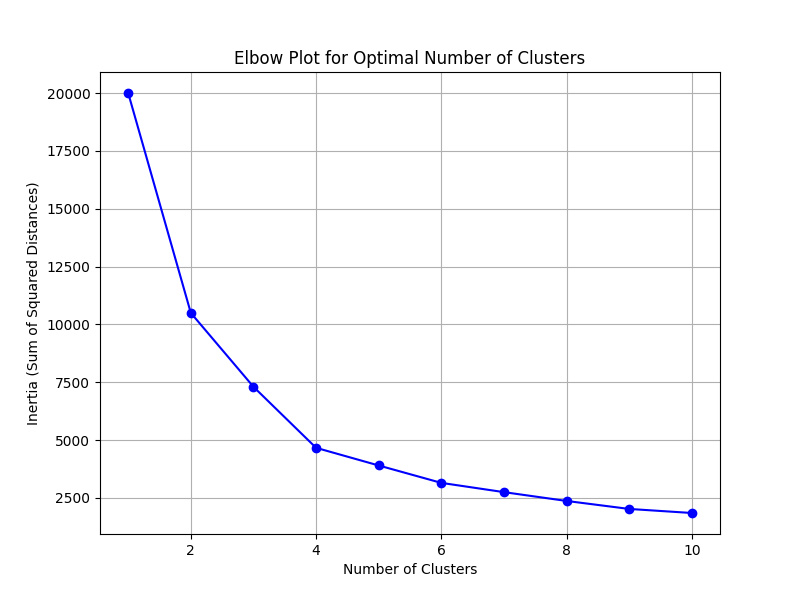
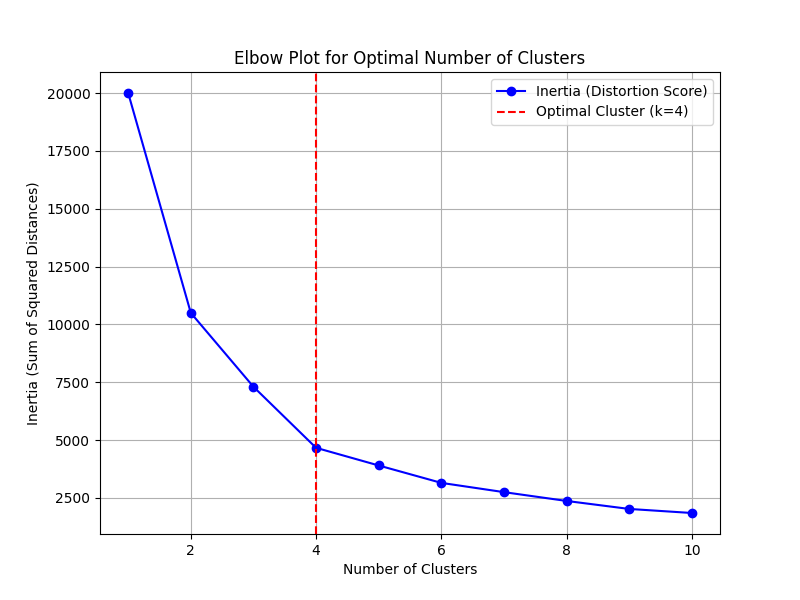
commit

Changed region(s): [[0.625, 0.12, 0.9062, 0.21]]

diff --git a/clustering_and_fitting.py b/clustering_and_fitting.py
@@ -107,29 +107,70 @@ def statistical_analysis(df, col):
 def perform_clustering(df, col1, col2):
     """
     Performs K-Means clustering on the dataset and visualizes the results.
-    Also generates an elbow plot for optimal cluster selection.
+    Generates both an elbow plot and a clustering plot.
+    
+    Parameters:
+    df (pd.DataFrame): The input DataFrame.
+    col1 (str): Column name for the first feature.
+    col2 (str): Column name for the second feature.
+    
+    Returns:
+    pd.DataFrame: The DataFrame with an additional 'Cluster' column.
     """
     data = df[[col1, col2]].values
     scaler = StandardScaler()
     data_scaled = scaler.fit_transform(data)
+
     inertia = []
     K_range = range(1, 11)
+
     for k in K_range:
         kmeans = KMeans(n_clusters=k, random_state=42, n_init=10)
         kmeans.fit(data_scaled)
         inertia.append(kmeans.inertia_)
+
+    # Elbow Plot
     plt.figure(figsize=(8, 6))
-    plt.plot(K_range, inertia, marker='o', linestyle='-', color='b')
+    plt.plot(K_range, inertia, marker='o', linestyle='-', color='b', label='Inertia (Distortion Score)')
+    plt.axvline(x=4, linestyle='--', color='red', label='Optimal Cluster (k=4)')
     plt.title('Elbow Plot for Optimal Number of Clusters')
     plt.xlabel('Number of Clusters')
     plt.ylabel('Inertia (Sum of Squared Distances)')
+    plt.legend()
     plt.grid(True)
     plt.savefig('elbow_plot.png')
+    plt.show()
+
+    # Apply K-Means with optimal k (assumed 4)
     optimal_k = 4
     kmeans = KMeans(n_clusters=optimal_k, random_state=42, n_init=10)
     df['Cluster'] = kmeans.fit_predict(data_scaled)
-    return df
 
+    # Define meaningful labels for clusters
+    cluster_labels = {
+        0: "Low Performance",
+        1: "High Performance",
+        2: "Moderate Performance",
+        3: "Struggling"
+    }
+
+    # Cluster Plot
+    plt.figure(figsize=(8, 6))
+    sns.scatterplot(x=df[col1], y=df[col2], hue=df['Cluster'], palette="deep", legend="full")
+
+    # Update legend labels
+    handles, labels = plt.gca().get_legend_handles_labels()
+    new_labels = [cluster_labels[int(label)] for label in labels if label.isdigit()]
+    plt.legend(handles, new_labels, title="Cluster Categories")
+
+    plt.title("Clustering Plot of Study Hours vs Performance Index")
+    plt.xlabel("Hours Studied")
+    plt.ylabel("Performance Index")
+    plt.grid(True)
+    plt.savefig("clustering_plot.png")
+    plt.show()
+
+    return df
 
 def perform_fitting(df, col1, col2):
     """
